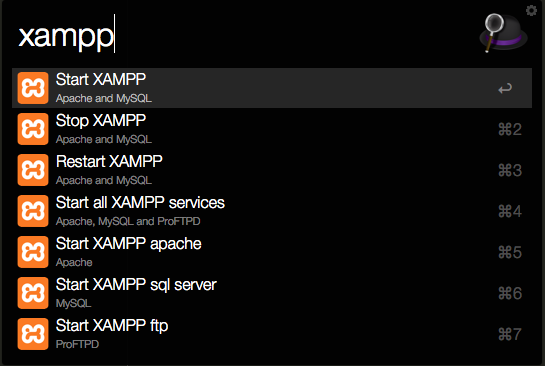
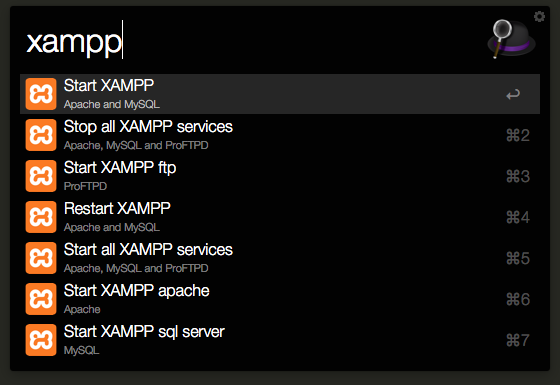
Update README and workflow

Changed region(s): [[0.0, 0.0, 0.9982, 1.0]]

diff --git a/README.md b/README.md
@@ -1,4 +1,4 @@
-# xampp ([Download v1.0](https://github.com/dmnsgn/alfred-xampp-workflow/blob/master/XAMPP.alfredworkflow?raw=true]))
+# xampp ([Download v1.1](https://github.com/dmnsgn/alfred-xampp-workflow/blob/master/XAMPP.alfredworkflow?raw=true]))
 
 XAMPP commands
 
@@ -14,7 +14,7 @@ XAMPP commands
 
 * `xampp`: default command. Starts Apache and MySQL.
 * `xampp restart`: retarts Apache and MySQL.
-* `xampp stop`: stops Apache and MySQL.
+* `xampp stop`: stops Apache, MySQL and ProFTPD.
 * `xampp all`: starts Apache, MySQL and ProFTPD.
 * `xampp apache`: starts Apache only.
 * `xampp sql`: starts MySQL only.
